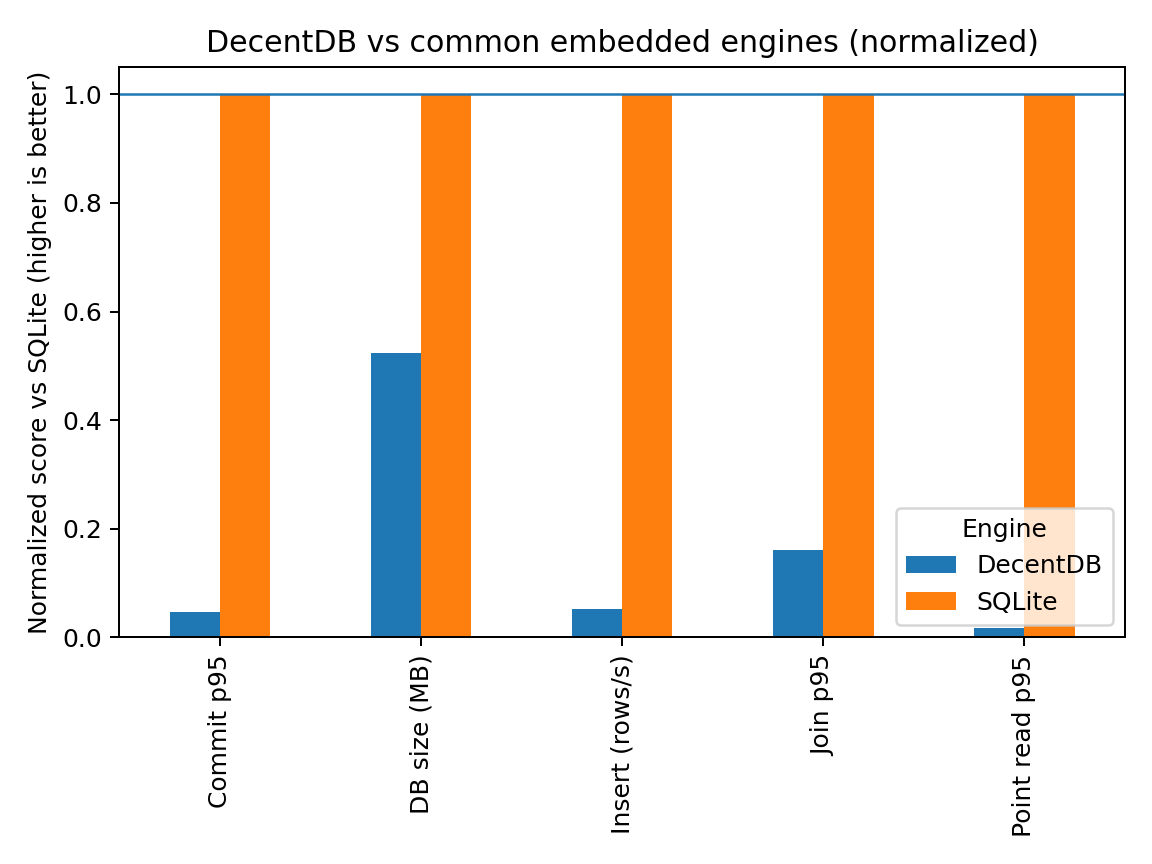
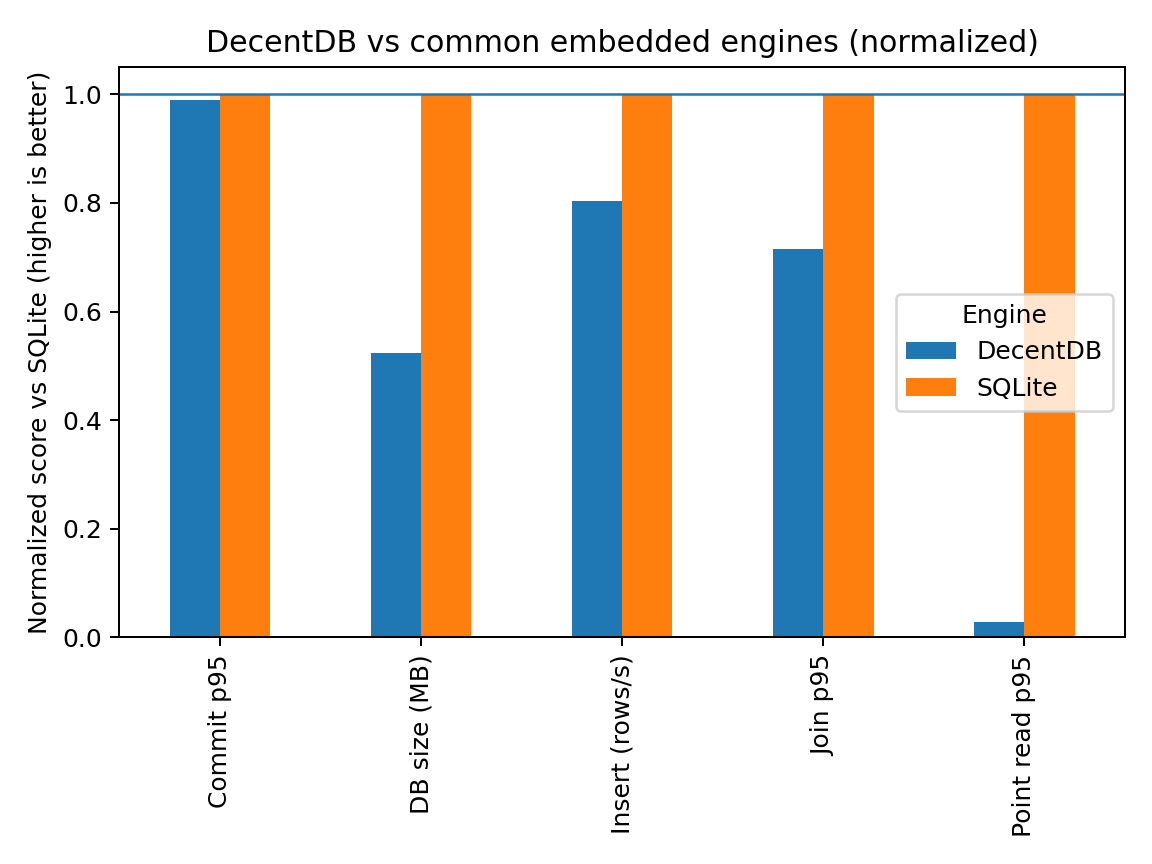
Enhance benchmarking metrics and output
- Updated benchmark results for DecentDB and SQLite in `bench_summary.json` with new latency measurements.
- Modified `run_benchmarks.nim` to include nanosecond precision for latency metrics, adding new fields for p50, p95, and p99 in nanoseconds.
- Adjusted `aggregate_benchmarks.py` to compute and convert nanosecond metrics to milliseconds for output.
- Updated SVG assets to reflect new benchmark data and visualizations.

diff --git a/benchmarks/embedded_compare/scripts/aggregate_benchmarks.py b/benchmarks/embedded_compare/scripts/aggregate_benchmarks.py
@@ -10,7 +10,7 @@ Output:
 
 Rules:
   - For each engine and metric, compute median-of-runs for p95 values.
-  - Convert units: microseconds -> milliseconds, bytes -> MB.
+  - Convert units: nanoseconds/microseconds -> milliseconds, bytes -> MB.
   - Baseline engine SQLite must be present.
 """
 
@@ -57,8 +57,16 @@ def get_machine_info():
 
 def main():
     ap = argparse.ArgumentParser()
-    ap.add_argument("--input", default="benchmarks/embedded_compare/raw", help="Folder containing raw benchmark outputs")
-    ap.add_argument("--output", default="benchmarks/embedded_compare/data/bench_summary.json", help="Output JSON path")
+    ap.add_argument(
+        "--input",
+        default="benchmarks/embedded_compare/raw",
+        help="Folder containing raw benchmark outputs",
+    )
+    ap.add_argument(
+        "--output",
+        default="benchmarks/embedded_compare/data/bench_summary.json",
+        help="Output JSON path",
+    )
     args = ap.parse_args()
 
     inp = Path(args.input)
@@ -84,6 +92,12 @@ def main():
         if not engine or not benchmark:
             continue
 
+        # Prefer nanosecond percentiles when available to avoid microsecond
+        # quantization for very fast operations.
+        p95_ns = metrics.get("p95_ns")
+        if p95_ns is not None:
+            data[(engine, benchmark)]["p95_ns"].append(float(p95_ns))
+
         p95_us = metrics.get("p95_us")
         if p95_us is not None:
             data[(engine, benchmark)]["p95_us"].append(float(p95_us))
@@ -103,16 +117,25 @@ def main():
             engines[engine] = {}
 
         if benchmark == "point_read":
+            p95_ns_values = values_dict.get("p95_ns", [])
             p95_us_values = values_dict.get("p95_us", [])
-            if p95_us_values:
+            if p95_ns_values:
+                engines[engine]["read_p95_ms"] = median(p95_ns_values) / 1_000_000.0
+            elif p95_us_values:
                 engines[engine]["read_p95_ms"] = median(p95_us_values) / 1000.0
         elif benchmark == "join":
+            p95_ns_values = values_dict.get("p95_ns", [])
             p95_us_values = values_dict.get("p95_us", [])
-            if p95_us_values:
+            if p95_ns_values:
+                engines[engine]["join_p95_ms"] = median(p95_ns_values) / 1_000_000.0
+            elif p95_us_values:
                 engines[engine]["join_p95_ms"] = median(p95_us_values) / 1000.0
         elif benchmark == "commit_latency":
+            p95_ns_values = values_dict.get("p95_ns", [])
             p95_us_values = values_dict.get("p95_us", [])
-            if p95_us_values:
+            if p95_ns_values:
+                engines[engine]["commit_p95_ms"] = median(p95_ns_values) / 1_000_000.0
+            elif p95_us_values:
                 engines[engine]["commit_p95_ms"] = median(p95_us_values) / 1000.0
         elif benchmark == "insert":
             ops_per_sec_values = values_dict.get("ops_per_sec", [])
@@ -120,7 +143,9 @@ def main():
                 engines[engine]["insert_rows_per_sec"] = median(ops_per_sec_values)
             db_size_bytes_values = values_dict.get("db_size_bytes", [])
             if db_size_bytes_values:
-                engines[engine]["db_size_mb"] = median(db_size_bytes_values) / (1024.0 * 1024.0)
+                engines[engine]["db_size_mb"] = median(db_size_bytes_values) / (
+                    1024.0 * 1024.0
+                )
 
     if "SQLite" not in engines:
         raise SystemExit("Baseline engine 'SQLite' not found in benchmark data")
@@ -138,10 +163,10 @@ def main():
                 "join_p95_ms": "ms (lower is better)",
                 "commit_p95_ms": "ms (lower is better)",
                 "insert_rows_per_sec": "rows/sec (higher is better)",
-                "db_size_mb": "MB (lower is better)"
-            }
+                "db_size_mb": "MB (lower is better)",
+            },
         },
-        "engines": engines
+        "engines": engines,
     }
 
     outp.parent.mkdir(parents=True, exist_ok=True)
